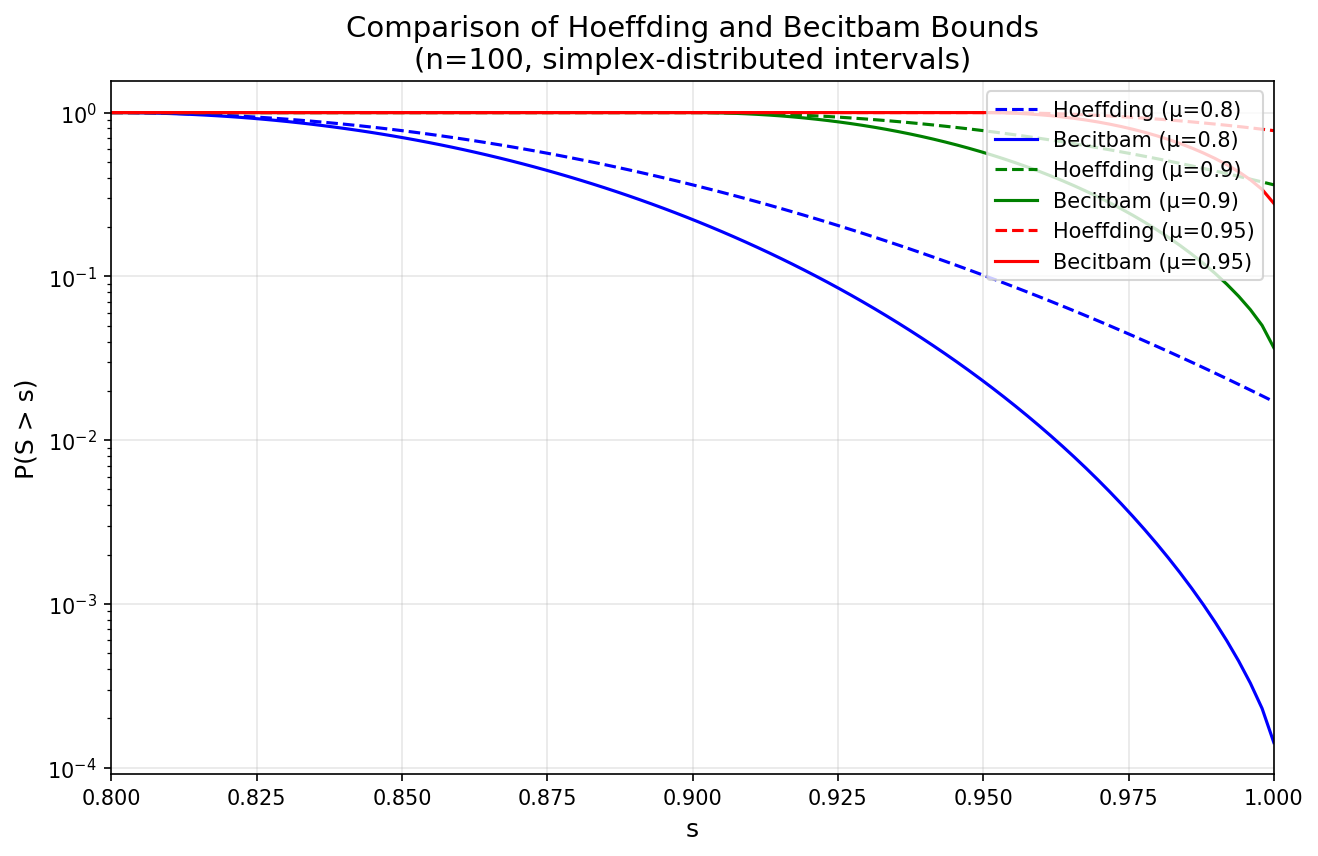
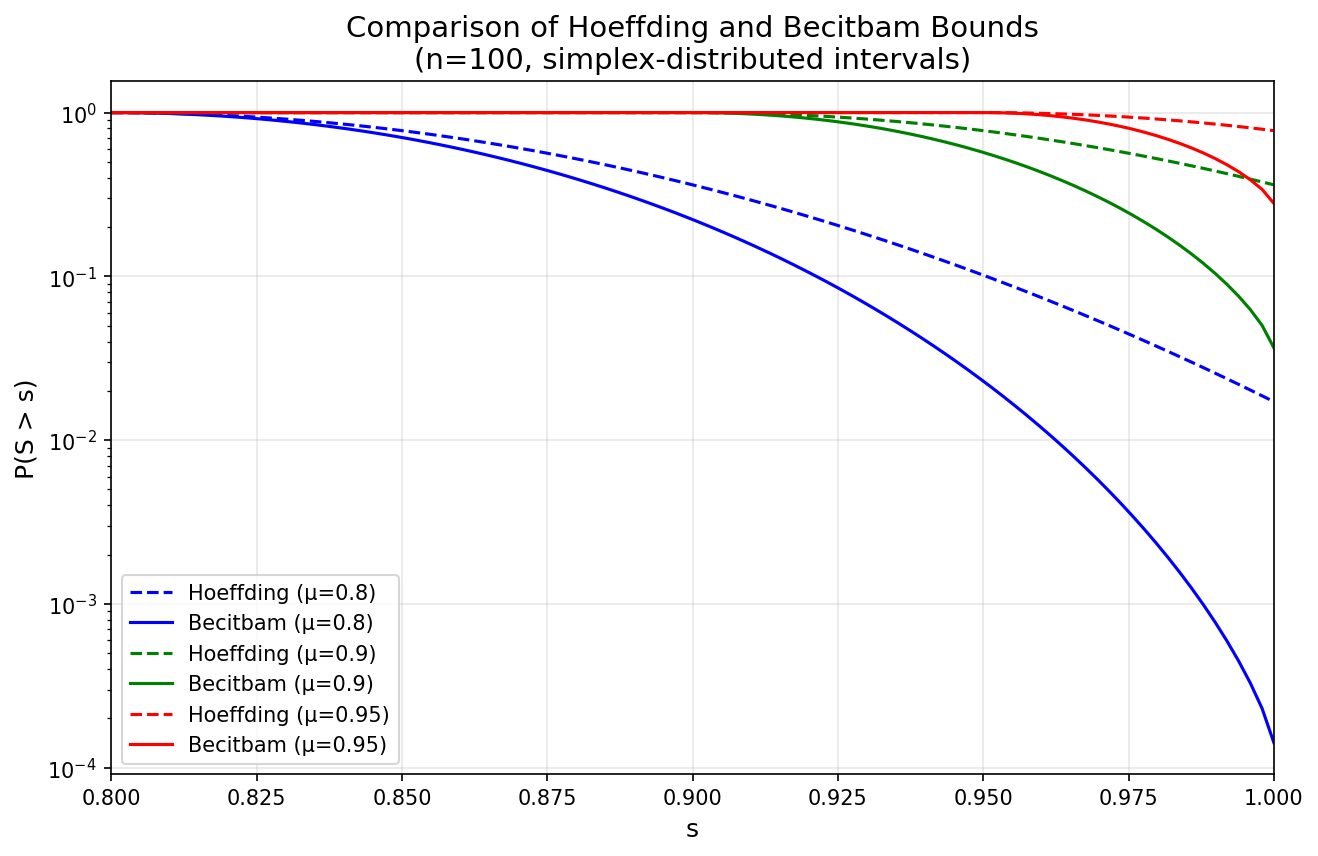
Move legend to lower left position in plot

Changed region(s): [[0.7466, 0.0911, 0.9643, 0.3341], [0.0933, 0.6682, 0.3111, 0.8808]]

diff --git a/comparisons/dirichletintervals/compare_bounds.py b/comparisons/dirichletintervals/compare_bounds.py
@@ -123,7 +123,7 @@ def main(n=100, seed=42):
     ax.set_xlabel('s', fontsize=12)
     ax.set_ylabel('P(S > s)', fontsize=12)
     ax.set_title(f'Comparison of Hoeffding and Becitbam Bounds\n(n={n}, simplex-distributed intervals)', fontsize=14)
-    ax.legend(loc='upper right', fontsize=10)
+    ax.legend(loc='lower left', fontsize=10)
     ax.set_yscale('log')
     ax.grid(True, alpha=0.3)
     ax.set_xlim(0.8, 1.0)
